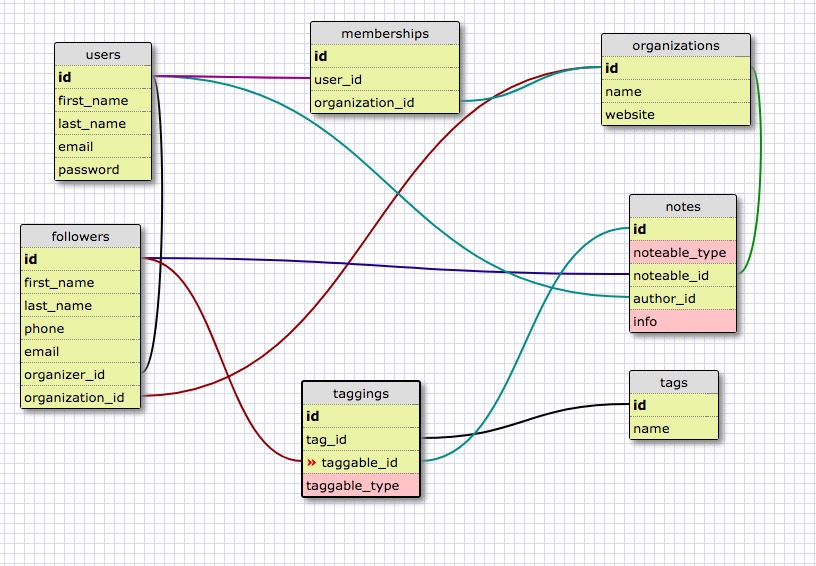
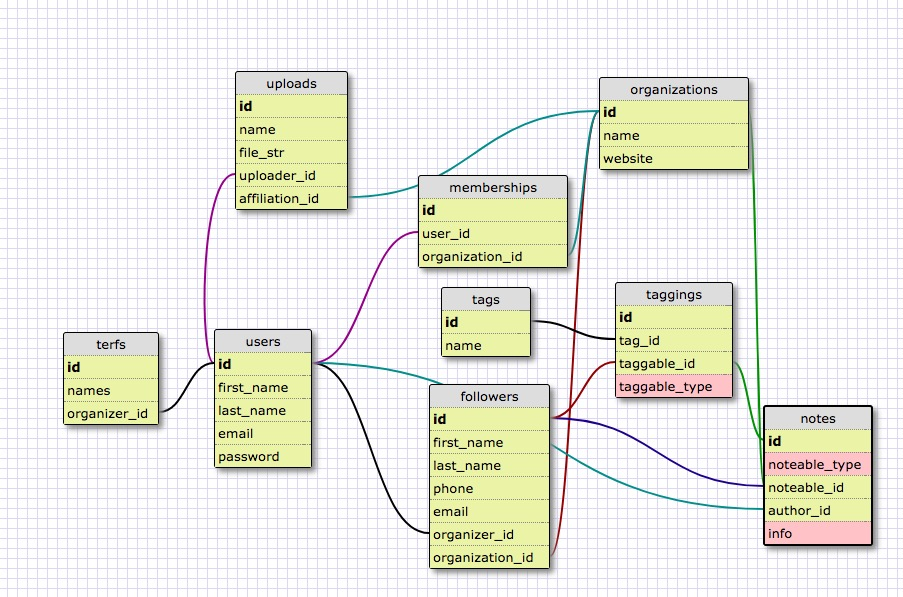
Add upload to schema

diff --git a/db/schema.rb b/db/schema.rb
@@ -10,7 +10,7 @@
 #
 # It's strongly recommended that you check this file into your version control system.
 
-ActiveRecord::Schema.define(version: 20171025155953) do
+ActiveRecord::Schema.define(version: 20171101232131) do
 
   # These are extensions that must be enabled in order to support this database
   enable_extension "plpgsql"
@@ -74,6 +74,15 @@ ActiveRecord::Schema.define(version: 20171025155953) do
     t.string   "name"
     t.datetime "created_at", null: false
     t.datetime "updated_at", null: false
+  end
+
+  create_table "uploads", force: :cascade do |t|
+    t.string   "name"
+    t.integer  "uploader_id"
+    t.integer  "affiliate_id"
+    t.string   "s3_id"
+    t.datetime "created_at",   null: false
+    t.datetime "updated_at",   null: false
   end
 
   create_table "users", force: :cascade do |t|
